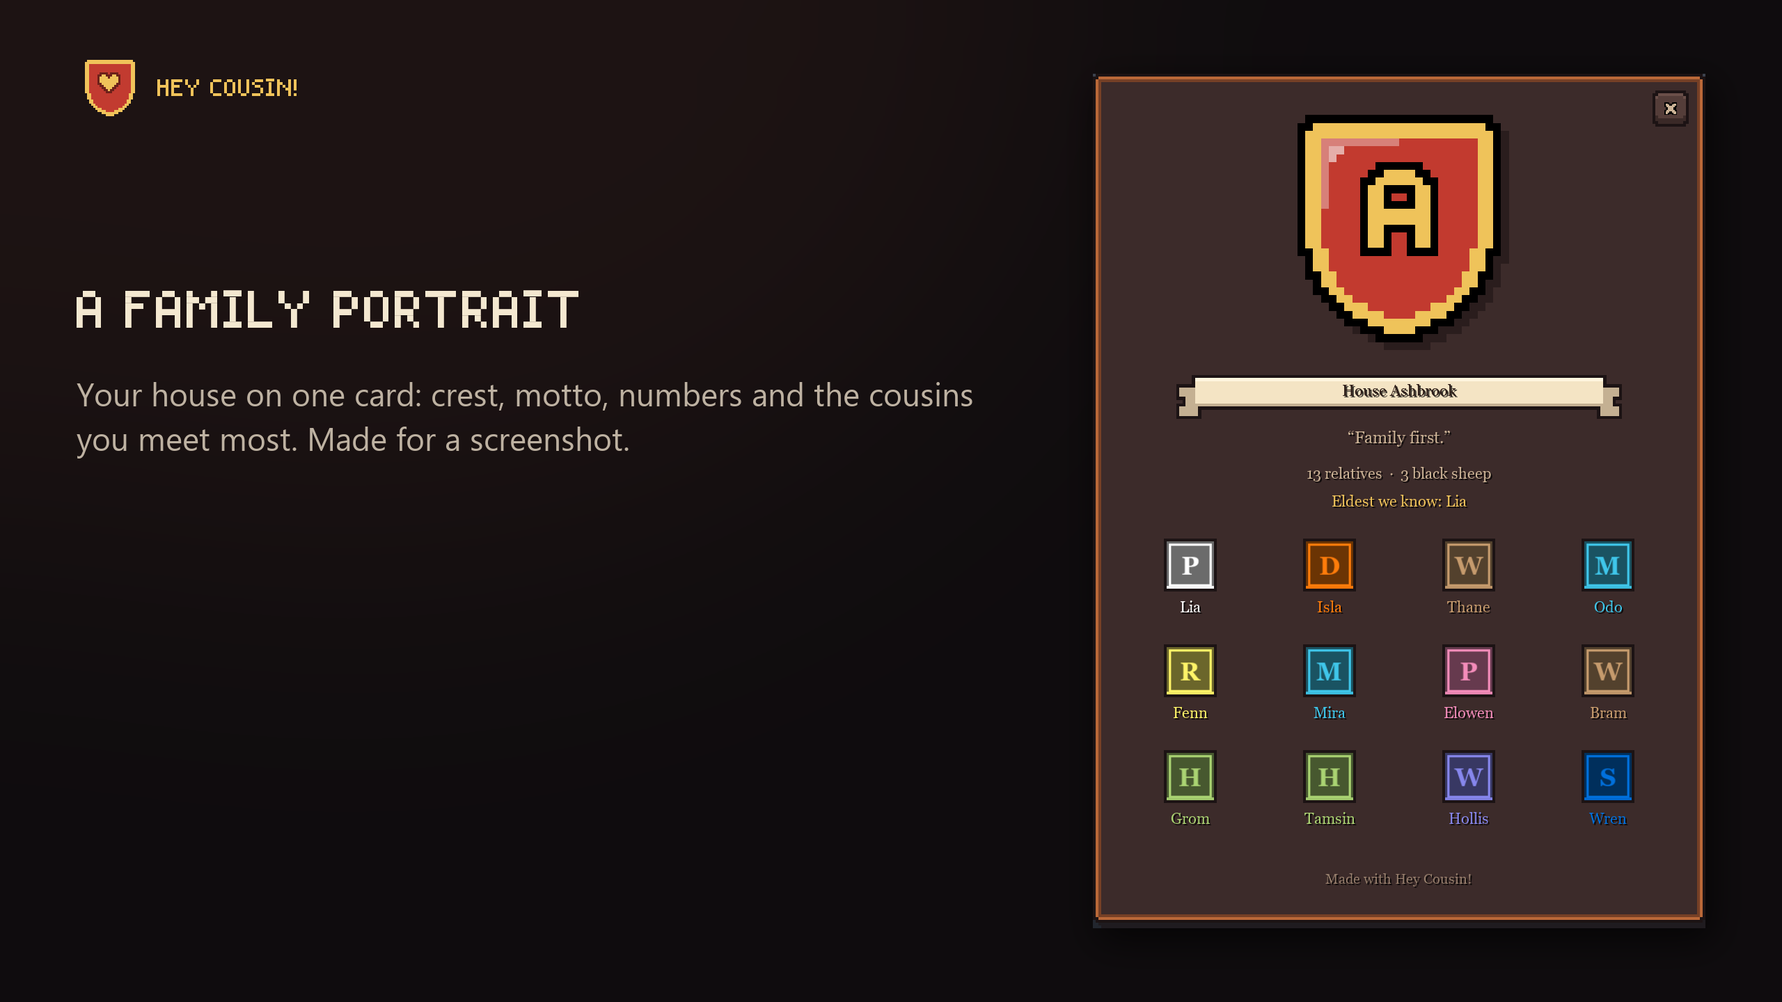
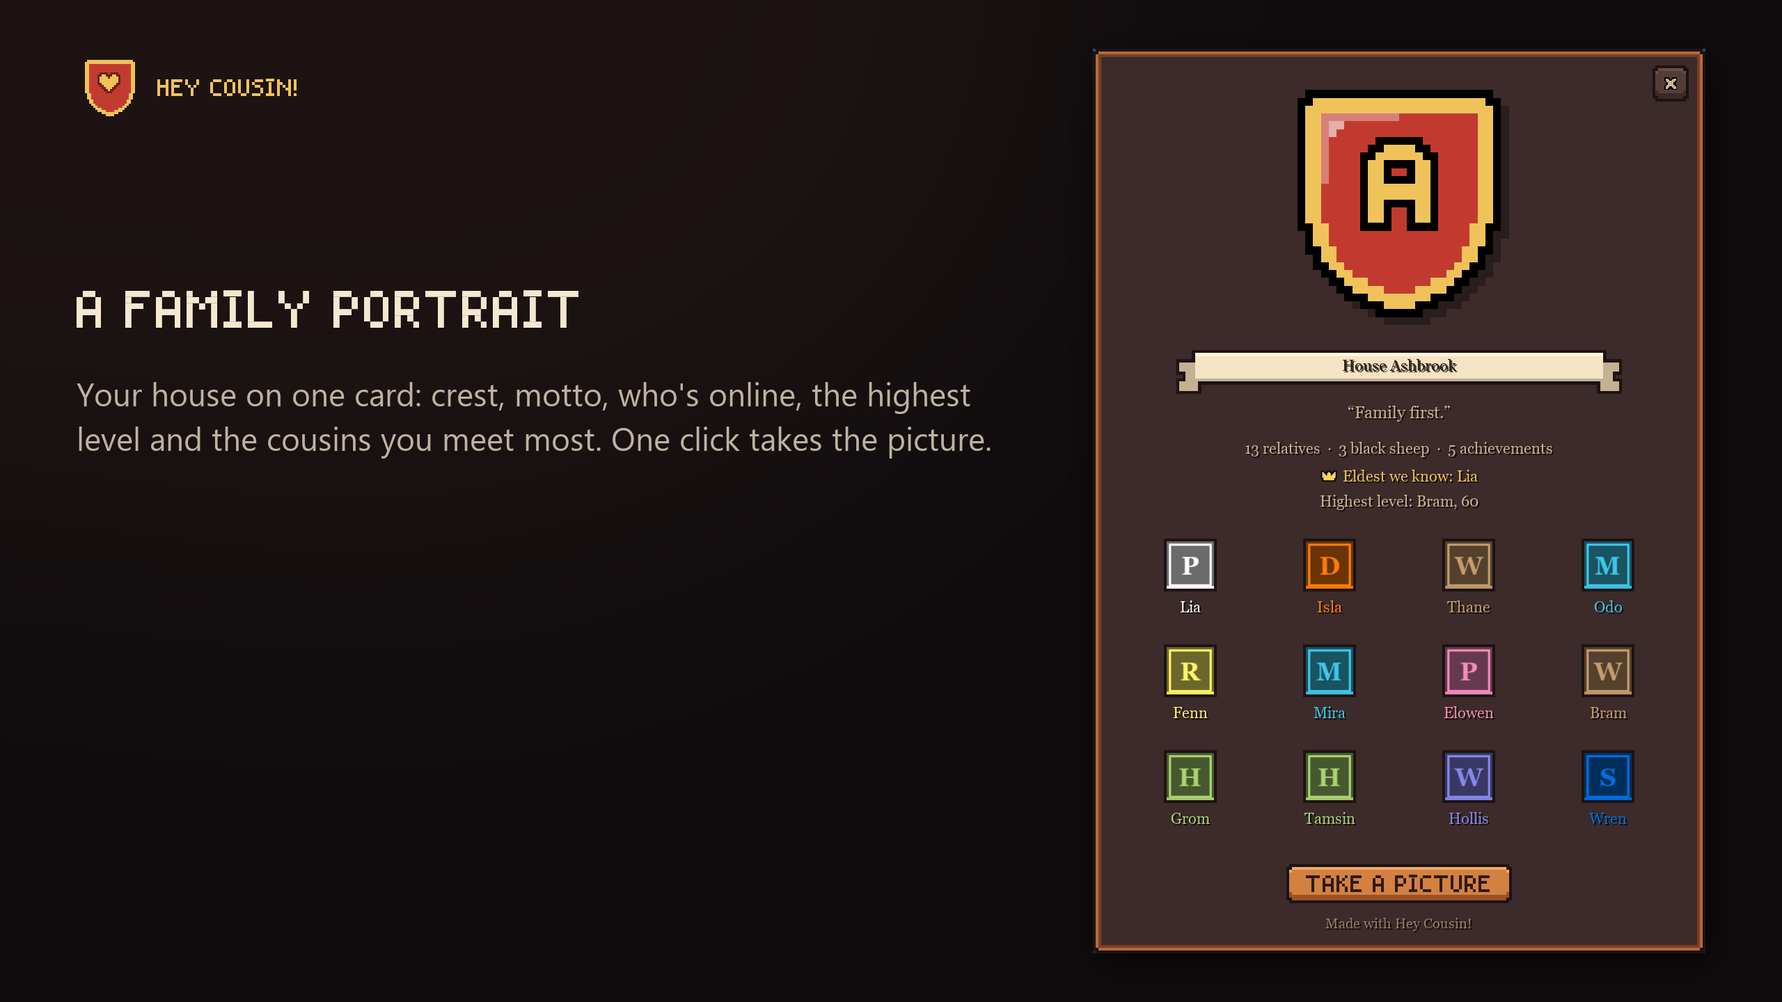
Store page for 1.1.3: reunions, achievements, backup, long time no see
New sections and two new pictures (reunion, achievements), the portrait drawn
again, and the commands. The new pictures are left out of the pasted
descriptions until they are uploaded and have addresses.

Changed region(s): [[0.5938, 0.0312, 0.9688, 0.5312], [0.5938, 0.8438, 0.9688, 0.9688], [0.0312, 0.375, 0.5625, 0.4688]]

diff --git a/Listing/make_shots.py b/Listing/make_shots.py
@@ -285,7 +285,11 @@ def main():
     window_card("race.png", "2bb-race.png", "THE FAMILY RACE",
                 "You and your cousins with the addon, by level. A line in chat tells you when one passes you.")
     window_card("portrait.png", "2bc-portrait.png", "A FAMILY PORTRAIT",
-                "Your house on one card: crest, motto, numbers and the cousins you meet most. Made for a screenshot.")
+                "Your house on one card: crest, motto, who's online, the highest level and the cousins you meet most. One click takes the picture.")
+    window_card("reunion.png", "3c-reunion.png", "FAMILY REUNION",
+                "Two or more of your house in one group get a banner with your crests side by side. Five or more, a family raid.")
+    window_card("achievements.png", "2bd-achievements.png", "FAMILY ACHIEVEMENTS",
+                "Your first cousin, the black sheep, the eldest, a family raid and more. Quiet on purpose: one line in chat, no pop-ups.")
     window_card("nameplates.png", "5f-settings-plates.png", "SPOT A COUSIN IN A CROWD",
                 "A red crest for a black sheep. Drag it in the settings: while that page is open, the real plates around you show it too.")
     map_card()

diff --git a/Listing/build_descriptions.py b/Listing/build_descriptions.py
@@ -31,6 +31,8 @@ ADDRESSES = {
                   "https://cdn.wago.io/gallery/CyJEzayw9lByi8uQVbm4E8xBmYK1DqQpdqL8PT4E.png"),
     "IMAGE_RACE": ("https://media.forgecdn.net/attachments/2158/180/race-png.png",
                 "https://cdn.wago.io/gallery/1kEGVIcyhDKD59vy2zFtMzDxERhHP1zyq7FkFgBX.png"),
+    "IMAGE_REUNION": (None, None),
+    "IMAGE_ACHIEVEMENTS": (None, None),
     "IMAGE_PORTRAIT": ("https://media.forgecdn.net/attachments/2158/178/portrait-png.png",
                     "https://cdn.wago.io/gallery/u9wPrkYpquori9Bd2Vn3JI7sw8k28dFbJtVffIVM.png"),
 }

diff --git a/Listing/description.md b/Listing/description.md
@@ -13,6 +13,9 @@ Hey Cousin! is the surname finder and family finder for World of Warcraft Foreve
 - **Crests on nameplates:** spot a cousin in a crowd
 - **Guild recruiting:** invite the cousins who have no guild yet
 - **"A cousin is near!"** A pop-up when you meet, and one click to wave hello
+- **Family reunions:** a banner when cousins are in your group
+- **Family achievements,** quiet ones: no pop-ups, no sounds
+- **Backup:** your whole family as one line of text, safe from a deleted WTF folder
 - **Your own family crest,** three looks, 12 languages, and no other addons needed
 
 It's useful from your first minute, even if nobody else in your family has it yet: the finder, pop-ups, crests, guild recruiting and your family's history all work alone.
@@ -35,7 +38,7 @@ Want to see another family? **Look up any surname** with `/cousin find Surname`.
 
 A pop-up with their face and a sound the first time you meet, or every time if you want. Click it to target them. Click **Hey cousin!** and you wave and say "Hey cousin Mira!" out loud, so everyone around sees it.
 
-A cousin on the other side of the war is the family's **black sheep**, with a pop-up of their own.
+A cousin on the other side of the war is the family's **black sheep**, with a pop-up of their own. Meet a cousin again after two weeks apart, and it says **"Long time no see!"**, with when and where you met last.
 
 ## Spot a cousin in a crowd
 
@@ -60,6 +63,13 @@ When your cousins have the addon too, they're marked **(uses addon)**, you see t
 - **Talk:** `/fam` reaches every cousin online who has it, on your faction, in any guild. Only people with your surname see it: like a guild chat for your family.
 - **Find a group:** say what you're looking for on the **Groups** tab. Cousins click **Join**, you get one Invite button.
 - **Hear the news:** a line in chat when a cousin comes online or reaches a round level.
+- **See their motto:** cousins with the addon see your motto on your page and your tooltip, and you see theirs.
+
+## Family reunions
+
+![Family reunion!](IMAGE_REUNION)
+
+When two or more of your house are in one group, everyone in it who has the addon gets a banner with your crests side by side, and a crown on the eldest. Five or more, and it's **a family raid**. Once a group, again when another cousin joins, never in a fight. Try it with `/cousin test reunion`.
 
 ## The family race and portrait
 
@@ -69,7 +79,13 @@ Who's the highest level in your family? **The family race** ranks you and your c
 
 ![A family portrait](IMAGE_PORTRAIT)
 
-**The family portrait** puts your house on one card: crest, motto, numbers and the cousins you meet most. Made for a screenshot to share with your family or Discord.
+**The family portrait** puts your house on one card: crest, motto, who's online, the eldest, the highest level and the cousins you meet most. **Take a picture** saves it as a screenshot without the card's buttons, to share with your family or Discord.
+
+## Family achievements
+
+![Family achievements](IMAGE_ACHIEVEMENTS)
+
+Eleven small things a family does: your first cousin, ten cousins, the black sheep, the eldest, an old friend met ten times, a reunion, a family raid and more. **Quiet on purpose:** no pop-up and no sound, one line in chat when you earn one (one line for several), and a switch turns even that off. They're behind the star on the Stats tab.
 
 ## Build your house
 
@@ -78,6 +94,7 @@ Who's the highest level in your family? **The family race** ranks you and your c
 - **Your crest:** shape, pattern, colors, a symbol and a motto, or roll the dice. It shows at the start of cousins' chat lines, in tooltips and on the minimap.
 - **Your other characters** show in your family, and a crown marks the eldest cousin we know, by a good guess.
 - **Stats:** how many relatives you have, who you meet most, and the surnames you see most.
+- **Other houses:** a player of another house shows how many of it you've met in their tooltip ("House Stone: met 3").
 
 Great for roleplay families, too.
 
@@ -101,6 +118,7 @@ Pixel, Forever (the classic game's parchment) and Smooth. Switch any time.
 - **Open about what it shares:** your addon quietly tells cousins' addons your class, level and crest, and that you run it: nothing `/who` doesn't already show, but that. Where you are stays private until you turn sharing on.
 - **Light:** windows are built only when you open them, and nothing runs in the background unless it has to.
 - **Easy to start:** a two-step setup, or skip it: everything has a good default, and everything is in the settings.
+- **Keep it safe:** **Backup** turns everything the addon keeps into one line of text. Keep it in a note or on Discord, and paste it back after a new computer or a deleted WTF folder. It's read as data, never run as code.
 
 ## Commands
 
@@ -112,14 +130,16 @@ Pixel, Forever (the classic game's parchment) and Smooth. Switch any time.
 - `/cousin tree`: your guild as a family tree
 - `/cousin race`: the family race
 - `/cousin portrait`: your family portrait
+- `/cousin achievements`: your family achievements
+- `/cousin backup`: keep your family safe, or bring it back
 - `/cousin settings`: every choice, by what it's for
 - `/cousin setup`: your crest and the main choices, step by step
-- `/cousin test` and `/cousin test map`: try the pop-up and the map crests
+- `/cousin test`, `/cousin test map` and `/cousin test reunion`: try the pop-up, the map crests and a reunion
 
 12 languages: English, German, French, Italian, Spanish (Spain and Latin America), Brazilian Portuguese, Russian, Ukrainian, Korean, and Chinese (simplified and traditional).
 
 ## Still young
 
-The game is new, and so is this. Family chat and the map are tested between real players. The guild features, groups, and the minimap and nameplate crests have had the least testing in the live game. If something looks wrong, or you try it with your nameplate addon (open the settings' Nameplates page to see), please tell me in the comments or on [GitHub](https://github.com/powercover/HeyCousin/issues).
+The game is new, and so is this. Family chat, the map, the minimap and nameplate crests, achievements and backup are tested in the live game. The guild features, groups and reunions have had the least testing there. If something looks wrong, or you try it with your nameplate addon (open the settings' Nameplates page to see), please tell me in the comments or on [GitHub](https://github.com/powercover/HeyCousin/issues).
 
 The [source code](https://github.com/powercover/HeyCousin) is there too, so you can read exactly what the addon sends. All rights reserved.

diff --git a/Listing/description-wago.md b/Listing/description-wago.md
@@ -11,6 +11,9 @@ Hey Cousin! is the surname finder and family finder for World of Warcraft Foreve
 - **Crests on nameplates:** spot a cousin in a crowd
 - **Guild recruiting:** invite the cousins who have no guild yet
 - **"A cousin is near!"** A pop-up when you meet, and one click to wave hello
+- **Family reunions:** a banner when cousins are in your group
+- **Family achievements,** quiet ones: no pop-ups, no sounds
+- **Backup:** your whole family as one line of text, safe from a deleted WTF folder
 - **Your own family crest,** three looks, 12 languages, and no other addons needed
 
 It's useful from your first minute, even if nobody else in your family has it yet: the finder, pop-ups, crests, guild recruiting and your family's history all work alone.
@@ -33,7 +36,7 @@ Want to see another family? **Look up any surname** with `/cousin find Surname`.
 
 A pop-up with their face and a sound the first time you meet, or every time if you want. Click it to target them. Click **Hey cousin!** and you wave and say "Hey cousin Mira!" out loud, so everyone around sees it.
 
-A cousin on the other side of the war is the family's **black sheep**, with a pop-up of their own.
+A cousin on the other side of the war is the family's **black sheep**, with a pop-up of their own. Meet a cousin again after two weeks apart, and it says **"Long time no see!"**, with when and where you met last.
 
 ## Spot a cousin in a crowd
 
@@ -58,6 +61,11 @@ When your cousins have the addon too, they're marked **(uses addon)**, you see t
 - **Talk:** `/fam` reaches every cousin online who has it, on your faction, in any guild. Only people with your surname see it: like a guild chat for your family.
 - **Find a group:** say what you're looking for on the **Groups** tab. Cousins click **Join**, you get one Invite button.
 - **Hear the news:** a line in chat when a cousin comes online or reaches a round level.
+- **See their motto:** cousins with the addon see your motto on your page and your tooltip, and you see theirs.
+
+## Family reunions
+
+When two or more of your house are in one group, everyone in it who has the addon gets a banner with your crests side by side, and a crown on the eldest. Five or more, and it's **a family raid**. Once a group, again when another cousin joins, never in a fight. Try it with `/cousin test reunion`.
 
 ## The family race and portrait
 
@@ -67,7 +75,11 @@ Who's the highest level in your family? **The family race** ranks you and your c
 
 ![A family portrait](https://cdn.wago.io/gallery/u9wPrkYpquori9Bd2Vn3JI7sw8k28dFbJtVffIVM.png)
 
-**The family portrait** puts your house on one card: crest, motto, numbers and the cousins you meet most. Made for a screenshot to share with your family or Discord.
+**The family portrait** puts your house on one card: crest, motto, who's online, the eldest, the highest level and the cousins you meet most. **Take a picture** saves it as a screenshot without the card's buttons, to share with your family or Discord.
+
+## Family achievements
+
+Eleven small things a family does: your first cousin, ten cousins, the black sheep, the eldest, an old friend met ten times, a reunion, a family raid and more. **Quiet on purpose:** no pop-up and no sound, one line in chat when you earn one (one line for several), and a switch turns even that off. They're behind the star on the Stats tab.
 
 ## Build your house
 
@@ -76,6 +88,7 @@ Who's the highest level in your family? **The family race** ranks you and your c
 - **Your crest:** shape, pattern, colors, a symbol and a motto, or roll the dice. It shows at the start of cousins' chat lines, in tooltips and on the minimap.
 - **Your other characters** show in your family, and a crown marks the eldest cousin we know, by a good guess.
 - **Stats:** how many relatives you have, who you meet most, and the surnames you see most.
+- **Other houses:** a player of another house shows how many of it you've met in their tooltip ("House Stone: met 3").
 
 Great for roleplay families, too.
 
@@ -99,6 +112,7 @@ Pixel, Forever (the classic game's parchment) and Smooth. Switch any time.
 - **Open about what it shares:** your addon quietly tells cousins' addons your class, level and crest, and that you run it: nothing `/who` doesn't already show, but that. Where you are stays private until you turn sharing on.
 - **Light:** windows are built only when you open them, and nothing runs in the background unless it has to.
 - **Easy to start:** a two-step setup, or skip it: everything has a good default, and everything is in the settings.
+- **Keep it safe:** **Backup** turns everything the addon keeps into one line of text. Keep it in a note or on Discord, and paste it back after a new computer or a deleted WTF folder. It's read as data, never run as code.
 
 ## Commands
 
@@ -110,14 +124,16 @@ Pixel, Forever (the classic game's parchment) and Smooth. Switch any time.
 - `/cousin tree`: your guild as a family tree
 - `/cousin race`: the family race
 - `/cousin portrait`: your family portrait
+- `/cousin achievements`: your family achievements
+- `/cousin backup`: keep your family safe, or bring it back
 - `/cousin settings`: every choice, by what it's for
 - `/cousin setup`: your crest and the main choices, step by step
-- `/cousin test` and `/cousin test map`: try the pop-up and the map crests
+- `/cousin test`, `/cousin test map` and `/cousin test reunion`: try the pop-up, the map crests and a reunion
 
 12 languages: English, German, French, Italian, Spanish (Spain and Latin America), Brazilian Portuguese, Russian, Ukrainian, Korean, and Chinese (simplified and traditional).
 
 ## Still young
 
-The game is new, and so is this. Family chat and the map are tested between real players. The guild features, groups, and the minimap and nameplate crests have had the least testing in the live game. If something looks wrong, or you try it with your nameplate addon (open the settings' Nameplates page to see), please tell me in the comments or on [GitHub](https://github.com/powercover/HeyCousin/issues).
+The game is new, and so is this. Family chat, the map, the minimap and nameplate crests, achievements and backup are tested in the live game. The guild features, groups and reunions have had the least testing there. If something looks wrong, or you try it with your nameplate addon (open the settings' Nameplates page to see), please tell me in the comments or on [GitHub](https://github.com/powercover/HeyCousin/issues).
 
 The [source code](https://github.com/powercover/HeyCousin) is there too, so you can read exactly what the addon sends. All rights reserved.

diff --git a/Listing/description-curseforge.md b/Listing/description-curseforge.md
@@ -11,6 +11,9 @@ Hey Cousin! is the surname finder and family finder for World of Warcraft Foreve
 - **Crests on nameplates:** spot a cousin in a crowd
 - **Guild recruiting:** invite the cousins who have no guild yet
 - **"A cousin is near!"** A pop-up when you meet, and one click to wave hello
+- **Family reunions:** a banner when cousins are in your group
+- **Family achievements,** quiet ones: no pop-ups, no sounds
+- **Backup:** your whole family as one line of text, safe from a deleted WTF folder
 - **Your own family crest,** three looks, 12 languages, and no other addons needed
 
 It's useful from your first minute, even if nobody else in your family has it yet: the finder, pop-ups, crests, guild recruiting and your family's history all work alone.
@@ -33,7 +36,7 @@ Want to see another family? **Look up any surname** with `/cousin find Surname`.
 
 A pop-up with their face and a sound the first time you meet, or every time if you want. Click it to target them. Click **Hey cousin!** and you wave and say "Hey cousin Mira!" out loud, so everyone around sees it.
 
-A cousin on the other side of the war is the family's **black sheep**, with a pop-up of their own.
+A cousin on the other side of the war is the family's **black sheep**, with a pop-up of their own. Meet a cousin again after two weeks apart, and it says **"Long time no see!"**, with when and where you met last.
 
 ## Spot a cousin in a crowd
 
@@ -58,6 +61,11 @@ When your cousins have the addon too, they're marked **(uses addon)**, you see t
 - **Talk:** `/fam` reaches every cousin online who has it, on your faction, in any guild. Only people with your surname see it: like a guild chat for your family.
 - **Find a group:** say what you're looking for on the **Groups** tab. Cousins click **Join**, you get one Invite button.
 - **Hear the news:** a line in chat when a cousin comes online or reaches a round level.
+- **See their motto:** cousins with the addon see your motto on your page and your tooltip, and you see theirs.
+
+## Family reunions
+
+When two or more of your house are in one group, everyone in it who has the addon gets a banner with your crests side by side, and a crown on the eldest. Five or more, and it's **a family raid**. Once a group, again when another cousin joins, never in a fight. Try it with `/cousin test reunion`.
 
 ## The family race and portrait
 
@@ -67,7 +75,11 @@ Who's the highest level in your family? **The family race** ranks you and your c
 
 ![A family portrait](https://media.forgecdn.net/attachments/2158/178/portrait-png.png)
 
-**The family portrait** puts your house on one card: crest, motto, numbers and the cousins you meet most. Made for a screenshot to share with your family or Discord.
+**The family portrait** puts your house on one card: crest, motto, who's online, the eldest, the highest level and the cousins you meet most. **Take a picture** saves it as a screenshot without the card's buttons, to share with your family or Discord.
+
+## Family achievements
+
+Eleven small things a family does: your first cousin, ten cousins, the black sheep, the eldest, an old friend met ten times, a reunion, a family raid and more. **Quiet on purpose:** no pop-up and no sound, one line in chat when you earn one (one line for several), and a switch turns even that off. They're behind the star on the Stats tab.
 
 ## Build your house
 
@@ -76,6 +88,7 @@ Who's the highest level in your family? **The family race** ranks you and your c
 - **Your crest:** shape, pattern, colors, a symbol and a motto, or roll the dice. It shows at the start of cousins' chat lines, in tooltips and on the minimap.
 - **Your other characters** show in your family, and a crown marks the eldest cousin we know, by a good guess.
 - **Stats:** how many relatives you have, who you meet most, and the surnames you see most.
+- **Other houses:** a player of another house shows how many of it you've met in their tooltip ("House Stone: met 3").
 
 Great for roleplay families, too.
 
@@ -99,6 +112,7 @@ Pixel, Forever (the classic game's parchment) and Smooth. Switch any time.
 - **Open about what it shares:** your addon quietly tells cousins' addons your class, level and crest, and that you run it: nothing `/who` doesn't already show, but that. Where you are stays private until you turn sharing on.
 - **Light:** windows are built only when you open them, and nothing runs in the background unless it has to.
 - **Easy to start:** a two-step setup, or skip it: everything has a good default, and everything is in the settings.
+- **Keep it safe:** **Backup** turns everything the addon keeps into one line of text. Keep it in a note or on Discord, and paste it back after a new computer or a deleted WTF folder. It's read as data, never run as code.
 
 ## Commands
 
@@ -110,14 +124,16 @@ Pixel, Forever (the classic game's parchment) and Smooth. Switch any time.
 - `/cousin tree`: your guild as a family tree
 - `/cousin race`: the family race
 - `/cousin portrait`: your family portrait
+- `/cousin achievements`: your family achievements
+- `/cousin backup`: keep your family safe, or bring it back
 - `/cousin settings`: every choice, by what it's for
 - `/cousin setup`: your crest and the main choices, step by step
-- `/cousin test` and `/cousin test map`: try the pop-up and the map crests
+- `/cousin test`, `/cousin test map` and `/cousin test reunion`: try the pop-up, the map crests and a reunion
 
 12 languages: English, German, French, Italian, Spanish (Spain and Latin America), Brazilian Portuguese, Russian, Ukrainian, Korean, and Chinese (simplified and traditional).
 
 ## Still young
 
-The game is new, and so is this. Family chat and the map are tested between real players. The guild features, groups, and the minimap and nameplate crests have had the least testing in the live game. If something looks wrong, or you try it with your nameplate addon (open the settings' Nameplates page to see), please tell me in the comments or on [GitHub](https://github.com/powercover/HeyCousin/issues).
+The game is new, and so is this. Family chat, the map, the minimap and nameplate crests, achievements and backup are tested in the live game. The guild features, groups and reunions have had the least testing there. If something looks wrong, or you try it with your nameplate addon (open the settings' Nameplates page to see), please tell me in the comments or on [GitHub](https://github.com/powercover/HeyCousin/issues).
 
 The [source code](https://github.com/powercover/HeyCousin) is there too, so you can read exactly what the addon sends. All rights reserved.

diff --git a/Listing/listing.md b/Listing/listing.md
@@ -48,10 +48,12 @@ They aren't game screenshots.
 | `IMAGE_HEY` | [hey.png](hey.png): the pop-up, with its "Hey cousin!" button |
 | `IMAGE_PLATES` | [nameplates.png](nameplates.png): the settings' sample nameplates, friend and black sheep |
 | `IMAGE_RACE` | [race.png](race.png): the family race |
-| `IMAGE_PORTRAIT` | [portrait.png](portrait.png): the family portrait |
+| `IMAGE_PORTRAIT` | [portrait.png](portrait.png): the family portrait (drawn again for 1.1.3: upload it again) |
+| `IMAGE_REUNION` | [reunion.png](reunion.png): a family reunion banner |
+| `IMAGE_ACHIEVEMENTS` | [achievements.png](achievements.png): the family achievements |
 
-The gallery's own order, best first: found, map, hey, groups, nameplates, portrait, page, race, crests, looks,
-tree.
+The gallery's own order, best first: found, map, hey, reunion, groups, nameplates, portrait, achievements, page,
+race, crests, looks, tree.
 
 ### Gallery addresses
 
